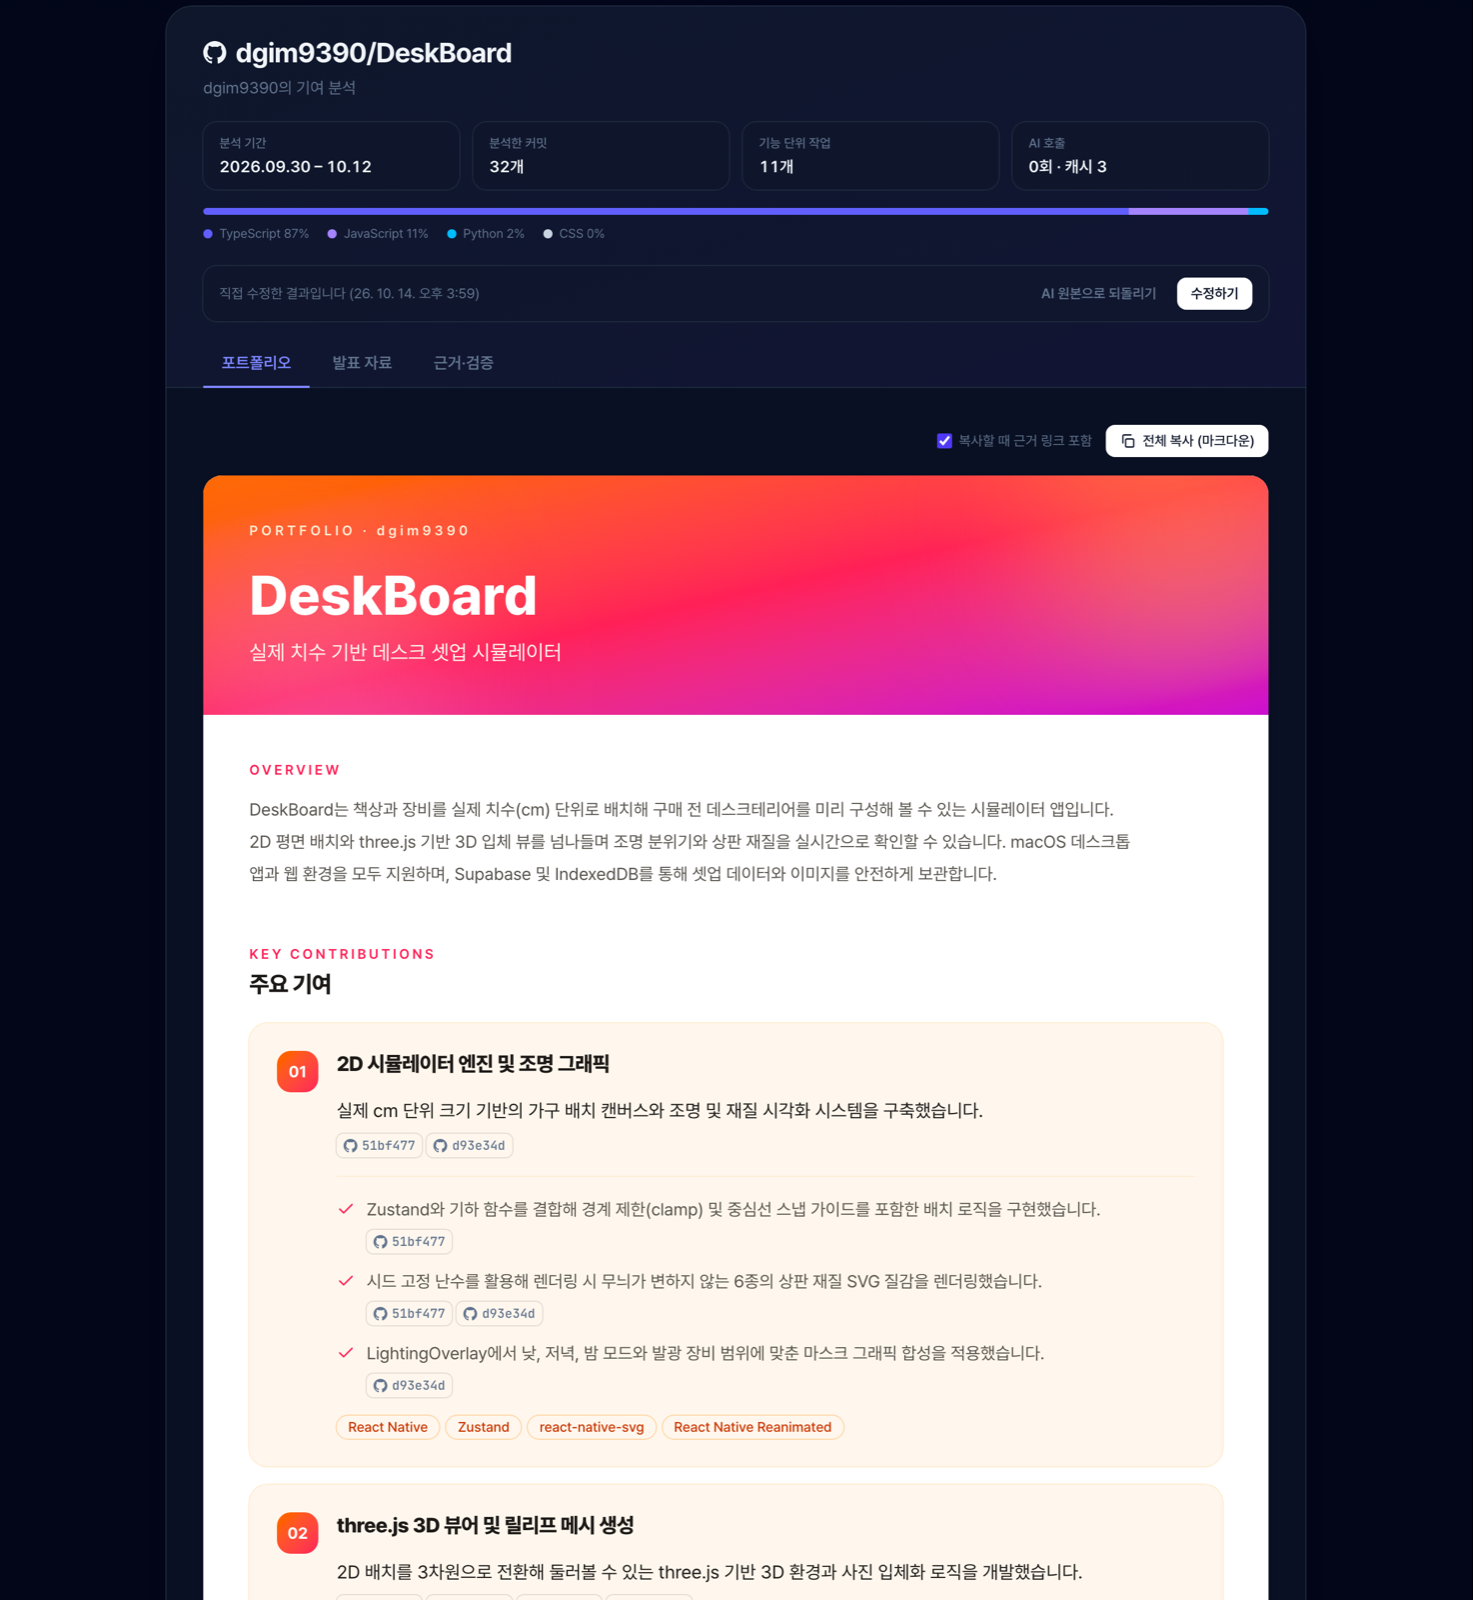
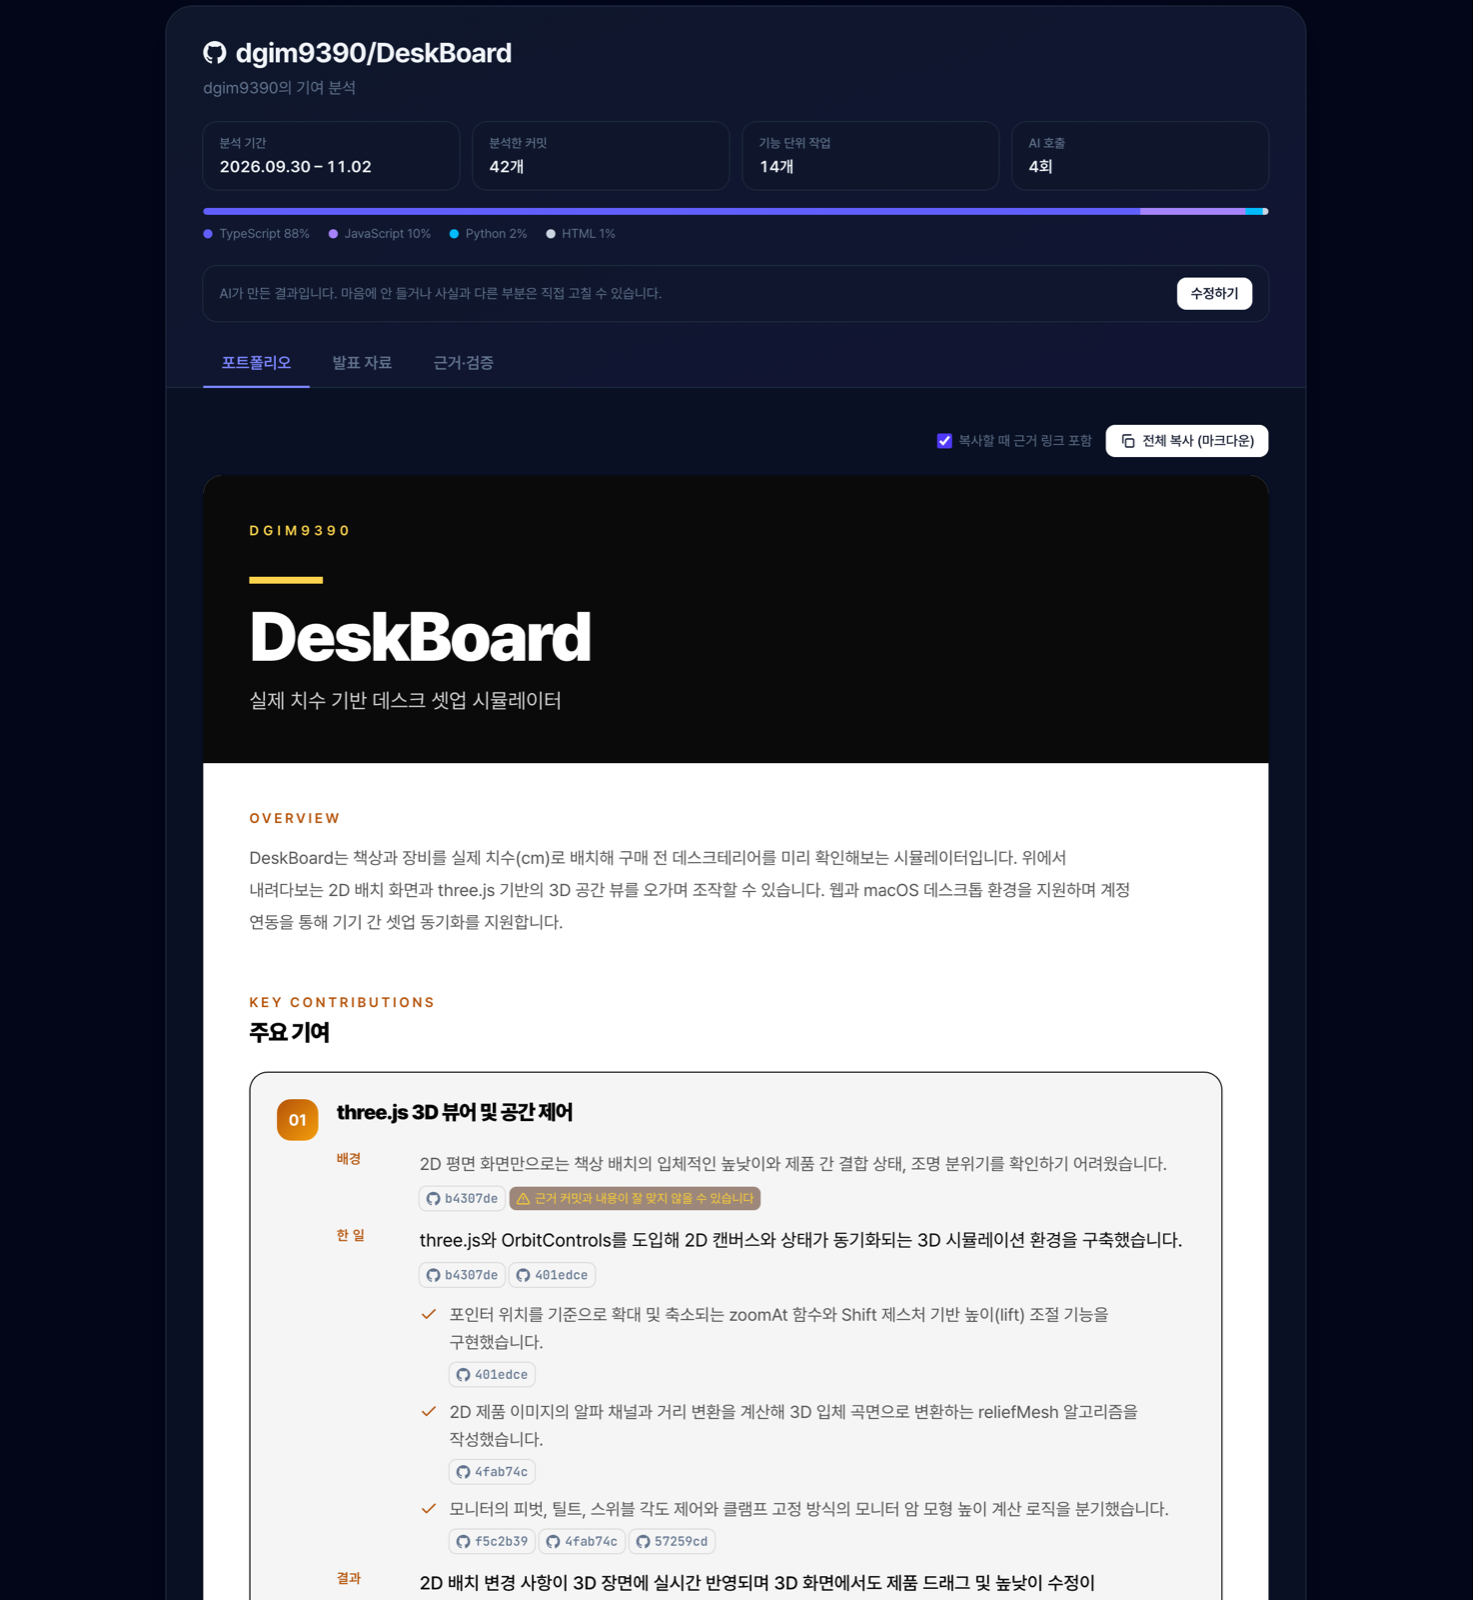
README 스크린샷을 현재 디자인으로 다시 촬영
- DeskBoard를 현재 코드로 새로 분석해 촬영 (기여의 배경 → 한 일 → 결과 구조, AI가 고른 디자인 조합)
- 디자인 조합 예시(터미널·페이퍼·오션·선셋)를 design-*.png로 교체, 예전 theme-*.png 삭제

diff --git a/README.md b/README.md
@@ -11,7 +11,7 @@
   <img src="docs/slide-cover.png" width="49%" alt="발표 자료 표지" />
   <img src="docs/slide-architecture.png" width="49%" alt="발표 자료 구조 슬라이드" />
 </p>
-<p align="center"><sub>dgim9390/DeskBoard(커밋 39개)를 분석한 결과</sub></p>
+<p align="center"><sub>dgim9390/DeskBoard(커밋 42개)를 분석한 결과. 디자인은 AI가 고른 조합(앰버 · 잉크 · 디스플레이 · 블랙 표지)입니다.</sub></p>
 
 ## 왜 만들었나
 
@@ -35,9 +35,11 @@ AI에게 "내 프로젝트로 포트폴리오 써 줘"라고 하면 그럴듯하
 **레포마다 다른 디자인**
 - AI가 프로젝트 성격을 보고 **색(15) × 배경(5) × 글꼴(4) × 표지(4)** 를 조합합니다. 포트폴리오와 발표 자료에 같이 적용됩니다.
 
-| 터미널 · 개발 도구 | 페이퍼 · 문서·연구 | 오션 · 데이터·모바일 | 모노 · 미니멀 |
+같은 결과를 다른 조합으로 바꾼 예입니다.
+
+| 터미널 · 개발 도구 | 페이퍼 · 문서·연구 | 오션 · 데이터·모바일 | 선셋 · 소비자 앱 |
 |---|---|---|---|
-| <img src="docs/theme-terminal.png" alt="터미널 조합" /> | <img src="docs/theme-paper.png" alt="페이퍼 조합" /> | <img src="docs/theme-ocean.png" alt="오션 조합" /> | <img src="docs/theme-mono.png" alt="모노 조합" /> |
+| <img src="docs/design-terminal.png" alt="터미널 조합" /> | <img src="docs/design-paper.png" alt="페이퍼 조합" /> | <img src="docs/design-ocean.png" alt="오션 조합" /> | <img src="docs/design-sunset.png" alt="선셋 조합" /> |
 
 **직접 수정**
 - 마음에 안 들거나 사실과 다른 부분은 "수정하기"로 고칠 수 있습니다. 문장, 항목, 슬라이드 순서, 디자인 모두 바꿀 수 있습니다.
